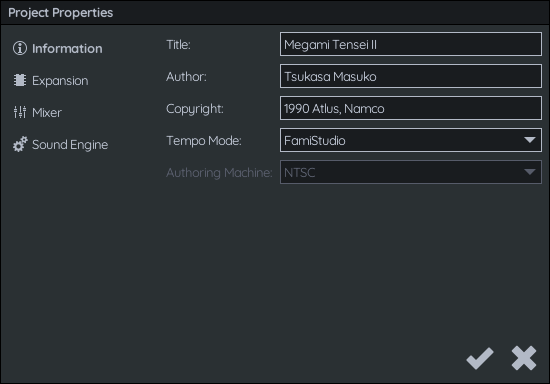
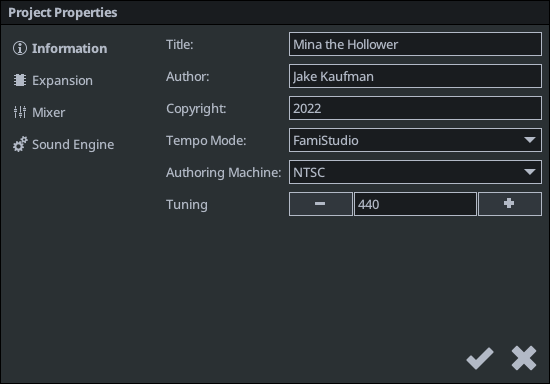
Doc update.

diff --git a/Docs/docs/expansion.md b/Docs/docs/expansion.md
@@ -111,6 +111,12 @@ When changing the values of the sliders with huge values (such as the Mod Speed)
 
 N163 instrument can have custom user-drawn waveforms. The size of the waveform is configurable, but limited by the amount of N163 RAM available, which decreases as more N163 channels are added. Waveforms can also be resampled from a WAV file, see the [resampling section](#resampling-wav-files-for-n163-and-fds) for more details.
 
+Since the amount of RAM is limited, and there can be up to 8 channels playing at the same time, it is the user's responsability to make sure waves do not overlap. For example, if 2 N163 channels are playing 2 different instruments at the same time, a sine wave and a triangle wave, they will have to occupy different RAM locations. Both cannot be a RAM position 0, for example. If using a wave size of 32, we could place one at offset 0, and the second at offset 32. 
+
+The register viewer can be used to dianose wave overlap issues. Look for error message in the RAM diagram if you think there are issues.
+
+![](images/N163Overlap.png#center)
+
 FamiStudio also supports cycling through multiple waveform in time. All the waveforms are presented visually as a single massive waveform, and each individual waveform can be repeated for a number of frames by setting the value of the "Repeat" effect in the effect panel. Moreover, both Loop and Release points can be configured. The current maximum number of wave data is currently 1024 bytes per instrument. So a wave size of 32 will be limited to 32 individual waves, where as a wave size of 16 will be able to have twice that amount.
 
 In the example below, 4 waveforms are setup and the number of repeats for each increases over time.
@@ -129,6 +135,7 @@ The parameters are:
 
 * **Wave Preset** : A few preset that you can use to set the waveform envelope.
 * **Wave Size** : The N163 chip had only 128 of RAM to store all the waveforms used at any given time. For example, if you use waveforms of size 32, you can only use 4 unique instrument at any given time. Using more will result in channels using wrong instruments.
+* **Wave Auto-Position** : Let FamiStudio automatically position the waves to try to avoid overlap. When this is active, every time you press Play, FamiStudio will scan all songs and all notes and try to assign a position to all the N163 instruments that have this option enabled. Note that this can fail if using too many large waves. When the auto-assignment algorithm fails, you will get no error message and will need to use the register viewer to diagnose issues, as mentioned above. 
 * **Wave Position** : The position, in the 128 bytes of memory, of the waveform. You must manually make sure that different waveforms don't overlap.
 * **Wave Count** : The position, in the 128 bytes of memory, of the waveform. You must manually make sure that different waveforms don't overlap.
 * **Resample Period**, **Offset** and **Normalize** : See the [resampling section](#resampling-wav-files-for-n163-and-fds)

diff --git a/Docs/docs/pianoroll.md b/Docs/docs/pianoroll.md
@@ -245,11 +245,13 @@ Much like the sequencer, selected notes can be copy (or cut) by pressing **Ctrl+
 
 ### Copying & pasting notes between projects 
 
-It is possible to copy notes from one project to another. When doing so, FamiStudio will first look to make sure the instruments used by these notes exist in the other project. It will look for instruments having _the same name_. If some instruments are not found in the second project, it will offer you to create them for you, thus bringing the instrument from one project to another.
+It is possible to copy notes from one song to another, or one project to another. When doing so, FamiStudio will first look for possible conflicts such as items (instruments, arpeggios, samples or patterns) with the same names, or missing items. If conflicts are detected, you will have to choose how to resolve those.
 
-For example, if you copy a note from project 1 using an instrument called "Piano", FamiStudio will look for an instrument named "Piano" in the second. If it finds one, it will assume it is the same (even though it might not be). If no "Piano" instrument is found, it will offer you to create it for you.
+More specifically, FamiStudio will be able to identify if the pasted data contains data that is not present in the current project. For example, if you are pasting notes refering to a "Piano" instrument, but no such instrument exist in the project, you will have the option to bring it over in your project. 
 
-This can be used as a way of transferring instruments from one project to another. Place a few notes using all the instruments you can to transfer. Copy them and paste them in the second project.
+Also, FamiStudio may detect that some of the items in the pasted data have the same name as existing items, but appear to be different. For example, if you pasting data containing a "Pattern 1", but the current song also has a "Pattern 1", but it does not contain the same exact notes. For each of those, you will be given the option to assume it is the same, or to rename the incoming data and preserve both ("Pattern 1" would be renamed to "Pattern 2" for example, or any number that is not in used).
+
+![](images/CopyPasteConflicts.png#center)
 
 ## Special paste
 

diff --git a/Docs/docs/song.md b/Docs/docs/song.md
@@ -10,6 +10,8 @@ Clicking on the little gear icon or selecting the "Project Properties..." option
 
 ![](images/EditProject.png#center)
 
+It is also possible to set the tuning to something other than A = 440Hz.
+
 ## Tempo modes
 
 FamiStudio supports two tempo modes : **FamiStudio** and **FamiTracker**. 
